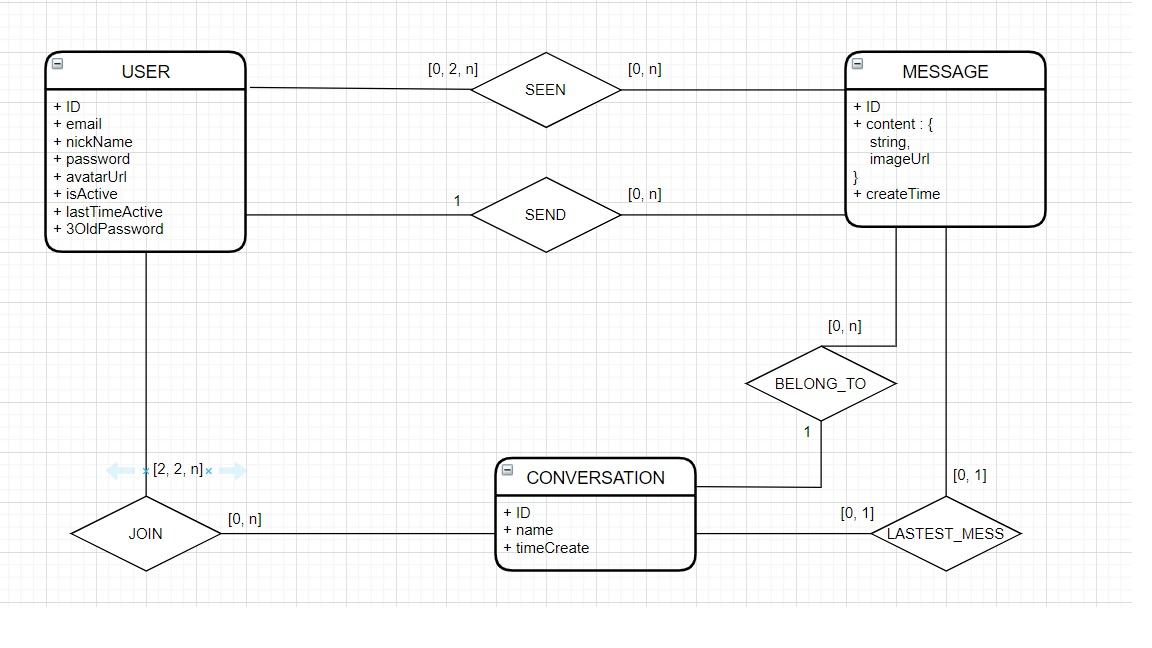
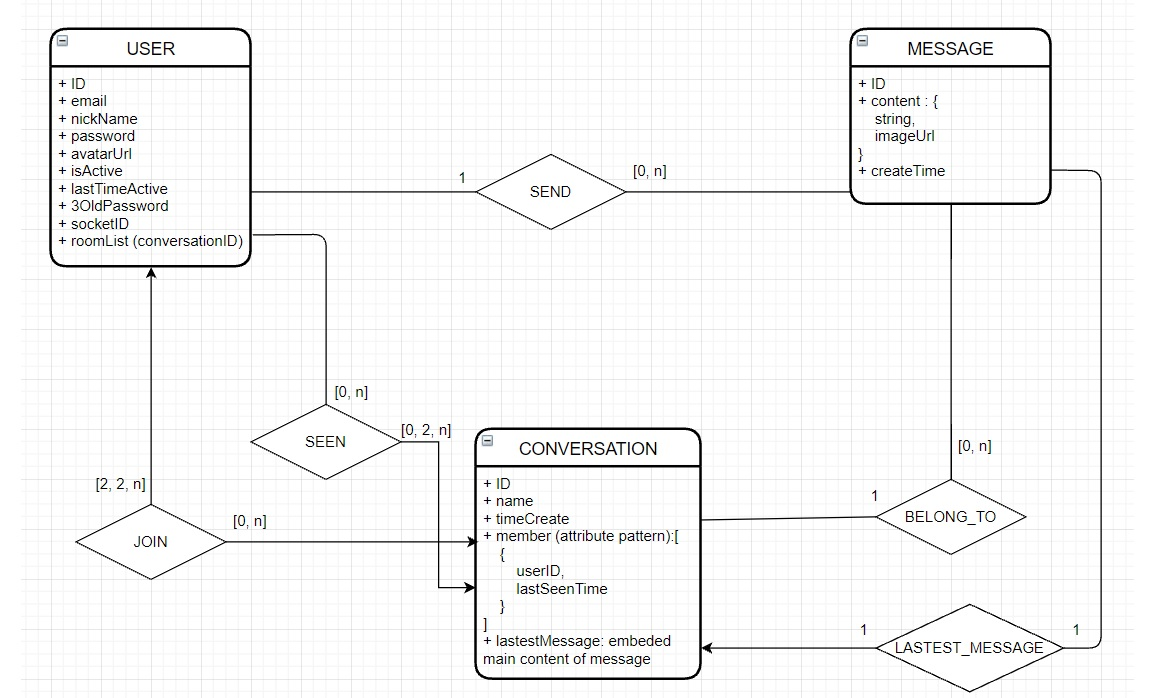
add ER and models

diff --git a/README.md b/README.md
@@ -75,9 +75,9 @@
     + cập nhật lại `currentConversation` theo `#2`
 
 **ER**
-<!-- <img src="./markdown_image/ER.jpg" > -->
+<img src="./markdown_image/ER.jpg" >
 
-<!-- **Từ ER + mongoDB pattern => các model sau:**
--   **USER**: *ID, email, nickName, password, avatarUrl, isActive, lastTimeOnline, 3OldPassword*
--   **CONVERSATION**: *ID, name, timeCreate, memberList, lastestMessage(embed)*
--   **MESSAGE**: *ID, content, timeCreate, conversationID, senderID, seenBy* -->
+**Từ ER + mongoDB pattern => các model sau:**
+-   **USER**: *`ID, email, nickName, password, avatarUrl, isActive, lastTimeActive, 3OldPassword, socketID, roomList (list of conversationID)`*
+-   **CONVERSATION**: *`ID, name, timeCreate, memberList (apply attribute pattern), lastestMessage (embed)`*
+-   **MESSAGE**: *`ID, content, timeCreate, conversationID, senderID`*
